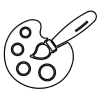
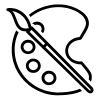
add - todas as páginas finalizadas e algumas alterações em outras (como ícones e imagens)

diff --git a/public/chat.html b/public/chat.html
@@ -37,7 +37,7 @@
     <br>
 
     <div id="flex1">
-        <img id="imagem" src="../assets/imagens/jessica.png" alt="Jéssica">
+        <img id="imagem" src="../assets/imagens/menina.png" alt="Jéssica">
         <div id="separacao">
             <span id="nome">Jéssica Barony</span>
             <div id="conteudo">
@@ -56,7 +56,7 @@
     <br>
 
     <div id="flex1">
-        <img id="imagem" src="../assets/imagens/jessica.png" alt="Jéssica">
+        <img id="imagem" src="../assets/imagens/menino.png" alt="Jéssica">
         <div id="separacao">
             <span id="nome">Daniel Gnoatto</span>
             <div id="conteudo">
@@ -75,7 +75,7 @@
     <br>
 
     <div id="flex1">
-        <img id="imagem" src="../assets/imagens/jessica.png" alt="Jéssica">
+        <img id="imagem" src="../assets/imagens/menina.png" alt="Jéssica">
         <div id="separacao">
             <span id="nome">Amanda Garcia Möller</span>
             <div id="conteudo">
@@ -94,7 +94,7 @@
     <br>
 
     <div id="flex1">
-        <img id="imagem" src="../assets/imagens/jessica.png" alt="Jéssica">
+        <img id="imagem" src="../assets/imagens/menina.png" alt="Jéssica">
         <div id="separacao">
             <span id="nome">Kamila Karoliny</span>
             <div id="conteudo">
@@ -113,7 +113,7 @@
     <br>
 
     <div id="flex1">
-        <img id="imagem" src="../assets/imagens/jessica.png" alt="Jéssica">
+        <img id="imagem" src="../assets/imagens/menino.png" alt="Jéssica">
         <div id="separacao">
             <span id="nome">Leonardo Franzoi</span>
             <div id="conteudo">
@@ -132,7 +132,7 @@
     <br>
 
     <div id="flex1">
-        <img id="imagem" src="../assets/imagens/jessica.png" alt="Jéssica">
+        <img id="imagem" src="../assets/imagens/menina.png" alt="Jéssica">
         <div id="separacao">
             <span id="nome">Nínive Simon</span>
             <div id="conteudo">
@@ -151,7 +151,7 @@
     <br>
 
     <div id="flex1">
-        <img id="imagem" src="../assets/imagens/jessica.png" alt="Jéssica">
+        <img id="imagem" src="../assets/imagens/menino.png" alt="Jéssica">
         <div id="separacao">
             <span id="nome">Brayan Godoy</span>
             <div id="conteudo">

diff --git a/style/style.css b/style/style.css
@@ -45,6 +45,96 @@ body {
     justify-content: center;
 }
 
+#flex2 {
+    display: flex;
+    align-items: center;
+    justify-content: center;
+}
+
+#flexSorriso {
+    display: flex;
+    align-items: center;
+    background-image: url('../assets/imagens/sorrisoTransparente.png');
+    background-size: cover;
+    background-position: center;
+    padding: 3px;
+    width: 340px;
+    height: 60px;
+    border-radius: 15px;
+}
+
+#flexFogo {
+    display: flex;
+    align-items: center;
+    background-image: url('../assets/imagens/fogoTransparente.png');
+    background-size: cover;
+    background-position: center;
+    padding: 3px;
+    width: 340px;
+    height: 60px;
+    border-radius: 15px;
+}
+
+#flexCoracao {
+    display: flex;
+    align-items: center;
+    background-image: url('../assets/imagens/coracaoTransparente.png');
+    background-size: cover;
+    background-position: center;
+    padding: 3px;
+    width: 340px;
+    height: 60px;
+    border-radius: 15px;
+}
+
+#flexAnjo {
+    display: flex;
+    align-items: center;
+    background-image: url('../assets/imagens/anjoTransparente.png');
+    background-size: cover;
+    background-position: center;
+    padding: 3px;
+    width: 340px;
+    height: 60px;
+    border-radius: 15px;
+}
+
+#flexLoucura {
+    display: flex;
+    align-items: center;
+    background-image: url('../assets/imagens/loucuraTransparente.png');
+    background-size: cover;
+    background-position: center;
+    padding: 3px;
+    width: 340px;
+    height: 60px;
+    border-radius: 15px;
+}
+
+#flexPalhaco {
+    display: flex;
+    align-items: center;
+    background-image: url('../assets/imagens/palhacoTransparente.png');
+    background-size: cover;
+    background-position: center;
+    padding: 3px;
+    width: 340px;
+    height: 60px;
+    border-radius: 15px;
+}
+
+#flexOlhinho {
+    display: flex;
+    align-items: center;
+    background-image: url('../assets/imagens/olhinhoTransparente.png');
+    background-size: cover;
+    background-position: center;
+    padding: 3px;
+    width: 340px;
+    height: 60px;
+    border-radius: 15px;
+}
+
 #imagem {
     width: 70px;
     height: 70px;

diff --git a/public/corChat.html b/public/corChat.html
@@ -22,31 +22,45 @@
     <br>
 
     <div id="flex">
-        <img id="fundo" src="../assets/imagens/sorriso.png" alt="Plano de Fundo - Sorriso">
+        <a href="corChatSorriso.html">
+            <img id="fundo" src="../assets/imagens/sorriso.png" alt="Plano de Fundo - Sorriso">
+        </a>
     </div>
 
     <div id="flex">
-        <img id="fundo" src="../assets/imagens/fogo.png" alt="Plano de Fundo - Sorriso">
+        <a href="corChatFogo.html">
+            <img id="fundo" src="../assets/imagens/fogo.png" alt="Plano de Fundo - Sorriso">
+        </a>
     </div>
 
     <div id="flex">
-        <img id="fundo" src="../assets/imagens/coracao.png" alt="Plano de Fundo - Sorriso">
+        <a href="corChatCoracao.html">
+            <img id="fundo" src="../assets/imagens/coracao.png" alt="Plano de Fundo - Sorriso">
+        </a>
     </div>
 
     <div id="flex">
-        <img id="fundo" src="../assets/imagens/anjo.png" alt="Plano de Fundo - Sorriso">
+        <a href="corChatAnjo.html">
+            <img id="fundo" src="../assets/imagens/anjo.png" alt="Plano de Fundo - Sorriso">
+        </a>
     </div>
 
     <div id="flex">
-        <img id="fundo" src="../assets/imagens/loucura.png" alt="Plano de Fundo - Sorriso">
+        <a href="corChatLoucura.html">
+            <img id="fundo" src="../assets/imagens/loucura.png" alt="Plano de Fundo - Sorriso">
+        </a>
     </div>
 
     <div id="flex">
-        <img id="fundo" src="../assets/imagens/palhaco.png" alt="Plano de Fundo - Sorriso">
+        <a href="corChatPalhaco.html">
+            <img id="fundo" src="../assets/imagens/palhaco.png" alt="Plano de Fundo - Sorriso">
+        </a>
     </div>
 
     <div id="flex">
-        <img id="fundo" src="../assets/imagens/olhinho.png" alt="Plano de Fundo - Sorriso">
+        <a href="corChatOlhinho.html">
+            <img id="fundo" src="../assets/imagens/olhinho.png" alt="Plano de Fundo - Sorriso">
+        </a>
     </div>
 
 </body>

diff --git a/public/corChatCoracao.html b/public/corChatCoracao.html
@@ -36,7 +36,7 @@
 
     <br>
 
-    <div id="flexSorriso">
+    <div id="flexCoracao">
         <img id="imagem" src="../assets/imagens/menina.png" alt="Jéssica">
         <div id="separacao">
             <span id="nome">Jéssica Barony</span>

diff --git a/public/corChatLoucura.html b/public/corChatLoucura.html
@@ -36,7 +36,7 @@
 
     <br>
 
-    <div id="flexSorriso">
+    <div id="flexLoucura">
         <img id="imagem" src="../assets/imagens/menina.png" alt="Jéssica">
         <div id="separacao">
             <span id="nome">Jéssica Barony</span>

diff --git a/public/corChatOlhinho.html b/public/corChatOlhinho.html
@@ -36,7 +36,7 @@
 
     <br>
 
-    <div id="flexSorriso">
+    <div id="flexOlhinho">
         <img id="imagem" src="../assets/imagens/menina.png" alt="Jéssica">
         <div id="separacao">
             <span id="nome">Jéssica Barony</span>

diff --git a/public/corChatPalhaco.html b/public/corChatPalhaco.html
@@ -36,7 +36,7 @@
 
     <br>
 
-    <div id="flexSorriso">
+    <div id="flexPalhaco">
         <img id="imagem" src="../assets/imagens/menina.png" alt="Jéssica">
         <div id="separacao">
             <span id="nome">Jéssica Barony</span>

diff --git a/public/corChatAnjo.html b/public/corChatAnjo.html
@@ -36,7 +36,7 @@
 
     <br>
 
-    <div id="flexSorriso">
+    <div id="flexAnjo">
         <img id="imagem" src="../assets/imagens/menina.png" alt="Jéssica">
         <div id="separacao">
             <span id="nome">Jéssica Barony</span>

diff --git a/public/corChatFogo.html b/public/corChatFogo.html
@@ -36,7 +36,7 @@
 
     <br>
 
-    <div id="flexSorriso">
+    <div id="flexFogo">
         <img id="imagem" src="../assets/imagens/menina.png" alt="Jéssica">
         <div id="separacao">
             <span id="nome">Jéssica Barony</span>
